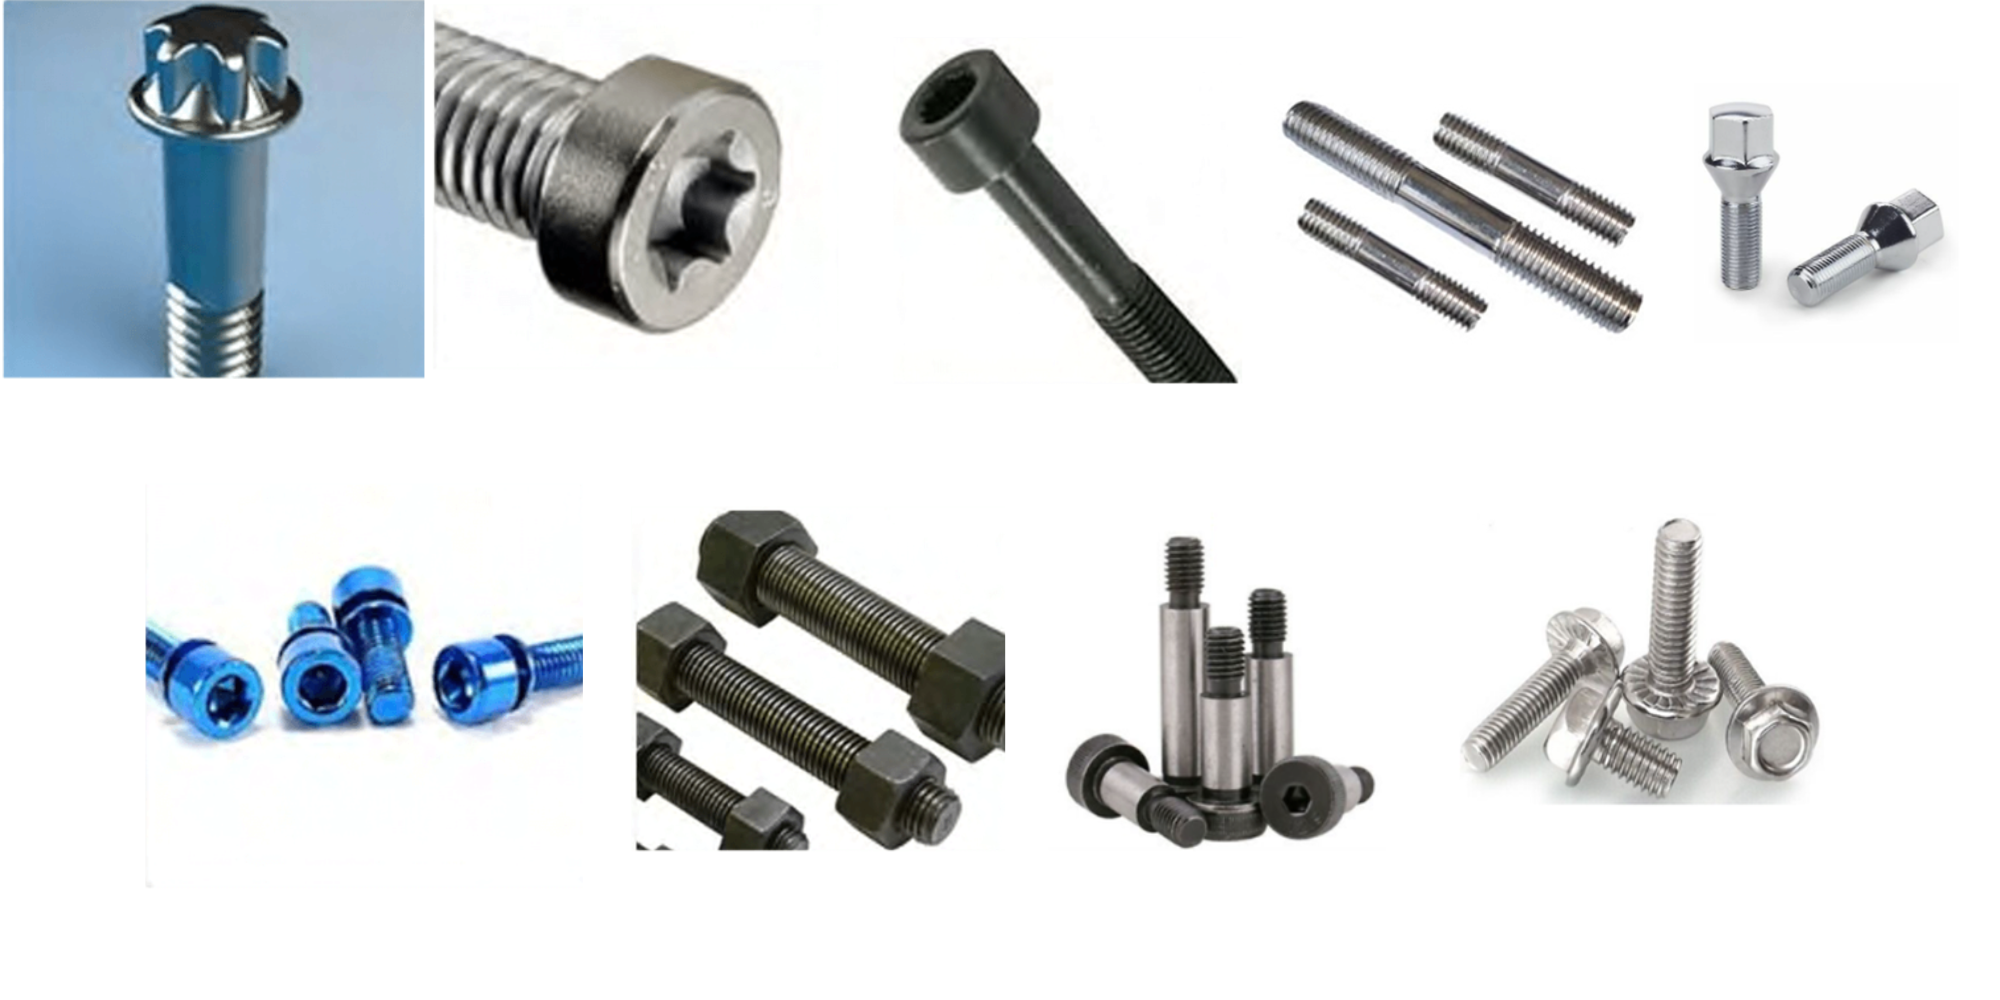
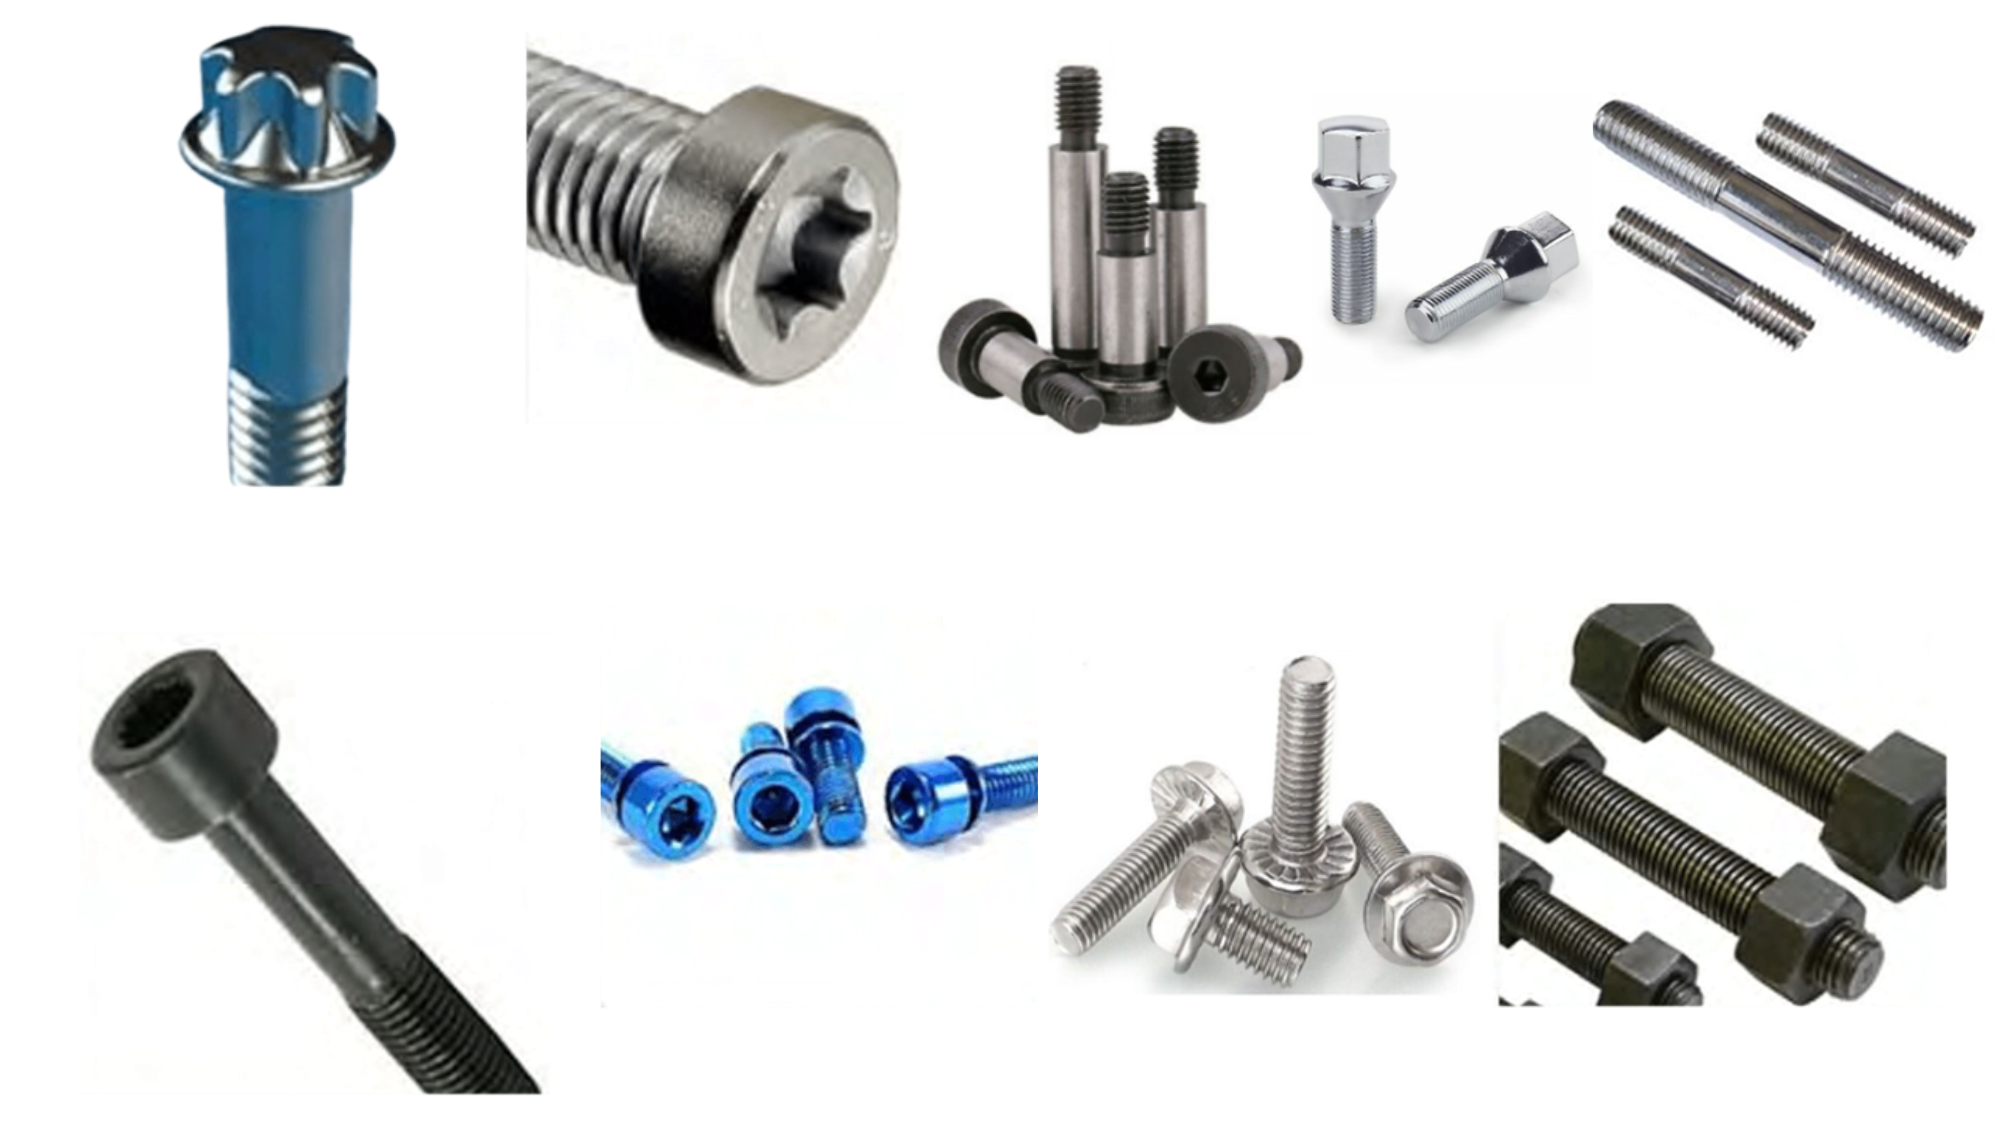
new changes

diff --git a/src/pages/CertificationsPage.jsx b/src/pages/CertificationsPage.jsx
@@ -1,0 +1,90 @@
+import React, { useState } from 'react';
+import { Fade } from 'react-awesome-reveal';
+
+const certifications = [
+  { src: '/logos/iso-9001.png', title: 'ISO', subtitle: '9001:2015', alt: 'ISO 9001:2015 Certified' },
+  { src: '/logos/iso-45001.png', title: 'ISO', subtitle: '45001:2018', alt: 'ISO 45001:2018 Certified' },
+  { src: '/logos/iso-14001.png', title: 'ISO', subtitle: '14001:2015', alt: 'ISO 14001:2015 Certified' },
+  { src: '/logos/iatf-16949.png', title: 'IATF', subtitle: '16949:2016', alt: 'IATF 16949:2016 Certified' },
+  { src: '/logos/ce.png', title: 'CE', subtitle: 'Certification', alt: 'CE Certified' },
+  { src: '/logos/rohs.png', title: 'ROHS', subtitle: 'Compliance', alt: 'ROHS Compliant' },
+];
+
+const CertificationsPage = () => {
+  const [modalOpen, setModalOpen] = useState(false);
+  const [modalImg, setModalImg] = useState('');
+  const [modalAlt, setModalAlt] = useState('');
+
+  const openModal = (img, alt) => {
+    setModalImg(img);
+    setModalAlt(alt);
+    setModalOpen(true);
+  };
+
+  const closeModal = () => {
+    setModalOpen(false);
+    setModalImg('');
+    setModalAlt('');
+  };
+
+  return (
+    <div className="min-h-screen bg-gradient-to-b from-white to-blue-50 py-16 px-4">
+      <div className="max-w-7xl mx-auto">
+        <Fade triggerOnce>
+          <h2 className="text-4xl font-extrabold text-center text-blue-800 mb-14">
+            Our International Certifications
+          </h2>
+        </Fade>
+
+        {/* Scrollable card container for mobile and grid for larger screens */}
+        <div className="grid grid-cols-1 sm:grid-cols-2 md:grid-cols-3 lg:grid-cols-3 gap-8">
+          {certifications.map((cert, index) => (
+            <Fade key={index} triggerOnce delay={index * 100}>
+              <div
+                className="bg-white hover:shadow-xl transition-transform transform hover:scale-105 rounded-xl p-6 flex flex-col items-center border border-gray-200 cursor-pointer"
+                onClick={() => openModal(cert.src, cert.alt)}
+              >
+                <img
+                  src={cert.src}
+                  alt={cert.alt}
+                  className="w-20 h-20 object-contain mb-4 transition duration-300"
+                />
+                <div className="text-2xl font-bold text-blue-600 mb-1">{cert.title}</div>
+                <div className="text-sm text-gray-600 text-center">{cert.subtitle}</div>
+              </div>
+            </Fade>
+          ))}
+        </div>
+      </div>
+
+      {/* Modal */}
+      {modalOpen && (
+        <div
+          className="fixed inset-0 z-50 flex items-center justify-center bg-black bg-opacity-70 backdrop-blur-sm"
+          onClick={closeModal}
+        >
+          <div
+            className="bg-white p-8 rounded-xl shadow-2xl relative max-w-md w-full"
+            onClick={(e) => e.stopPropagation()}
+          >
+            <button
+              className="absolute top-3 right-4 text-gray-600 hover:text-gray-800 text-2xl"
+              onClick={closeModal}
+              aria-label="Close"
+            >
+              &times;
+            </button>
+            <img
+              src={modalImg}
+              alt={modalAlt}
+              className="w-full h-64 object-contain mb-4"
+            />
+            <div className="text-xl font-semibold text-center text-blue-800">{modalAlt}</div>
+          </div>
+        </div>
+      )}
+    </div>
+  );
+};
+
+export default CertificationsPage;

diff --git a/src/components/Navigation.jsx b/src/components/Navigation.jsx
@@ -142,7 +142,7 @@ export default function Navigation() {
           </div>
 
           {/* Desktop Navigation */}
-          <nav className="hidden lg:flex space-x-6 text-sm font-medium items-center">
+          <nav className="hidden lg:flex gap-x-6 text-sm font-medium items-center overflow-x-auto whitespace-nowrap scrollbar-thin scrollbar-thumb-gray-400 scrollbar-track-gray-100">
             <NavLink to="/" end className={({ isActive }) => isActive ? "text-blue-400 font-semibold" : "text-gray-300 hover:text-blue-400"}>Home</NavLink>
             <div className="relative">
               <Link
@@ -208,6 +208,7 @@ export default function Navigation() {
             <NavLink to="/events" className={({ isActive }) => isActive ? "text-blue-400 font-semibold" : "text-gray-300 hover:text-blue-400"}>Events & Media</NavLink>
             <NavLink to="/gallery" className={({ isActive }) => isActive ? "text-blue-400 font-semibold" : "text-gray-300 hover:text-blue-400"}>Plant Gallery</NavLink>
             <NavLink to="/csr" className={({ isActive }) => isActive ? "text-blue-400 font-semibold" : "text-gray-300 hover:text-blue-400"}>CSR</NavLink>
+            <NavLink to="/certifications" className={({ isActive }) => isActive ? "text-blue-400 font-semibold" : "text-gray-300 hover:text-blue-400"}>Certifications</NavLink>
             <NavLink to="/careers" className={({ isActive }) => isActive ? "text-blue-400 font-semibold" : "text-gray-300 hover:text-blue-400"}>Careers</NavLink>
             <NavLink to="/about" className={({ isActive }) => isActive ? "text-blue-400 font-semibold" : "text-gray-300 hover:text-blue-400"}>About Us</NavLink>
             <NavLink to="/contact" className={({ isActive }) => isActive ? "text-blue-400 font-semibold" : "text-gray-300 hover:text-blue-400"}>Contact Us</NavLink>
@@ -290,6 +291,7 @@ export default function Navigation() {
           <NavLink to="/events" className={({ isActive }) => isActive ? "text-blue-400 font-semibold" : "text-gray-300 hover:text-blue-400"} onClick={toggleMobileMenu}>Events & Media</NavLink>
           <NavLink to="/gallery" className={({ isActive }) => isActive ? "text-blue-400 font-semibold" : "text-gray-300 hover:text-blue-400"} onClick={toggleMobileMenu}>Plant Gallery</NavLink>
           <NavLink to="/csr" className={({ isActive }) => isActive ? "text-blue-400 font-semibold" : "text-gray-300 hover:text-blue-400"} onClick={toggleMobileMenu}>CSR</NavLink>
+          <NavLink to="/certifications" className={({ isActive }) => isActive ? "text-blue-400 font-semibold" : "text-gray-300 hover:text-blue-400"} onClick={toggleMobileMenu}>Certifications</NavLink>
           <NavLink to="/careers" className={({ isActive }) => isActive ? "text-blue-400 font-semibold" : "text-gray-300 hover:text-blue-400"} onClick={toggleMobileMenu}>Careers</NavLink>
           <NavLink to="/about" className={({ isActive }) => isActive ? "text-blue-400 font-semibold" : "text-gray-300 hover:text-blue-400"} onClick={toggleMobileMenu}>About Us</NavLink>
           <NavLink to="/contact" className={({ isActive }) => isActive ? "text-blue-400 font-semibold" : "text-gray-300 hover:text-blue-400"} onClick={toggleMobileMenu}>Contact Us</NavLink>

diff --git a/src/App.js b/src/App.js
@@ -11,6 +11,7 @@ import EventsPage from './pages/EventsPage';
 import PlantGalleryPage from './pages/PlantGalleryPage';
 import ManufacturingPage from './pages/ManufacturingPage';
 import AboutUs from './pages/AboutUs';
+import CertificationsPage from './pages/CertificationsPage';
 
 function App() {
   return (
@@ -27,6 +28,7 @@ function App() {
           <Route path="/gallery" element={<PlantGalleryPage />} />
           <Route path="/manufacturing" element={<ManufacturingPage />} />
           <Route path="/about" element={<AboutUs />} />
+          <Route path="/certifications" element={<CertificationsPage />} />
         </Routes>
       </Layout>
     </Router>

diff --git a/src/data/products.js b/src/data/products.js
@@ -3,7 +3,7 @@ export const productCategories = [
     id: 1,
     name: 'SOCKET HEAD CAP SCREW',
     description: 'High-strength screws with a cylindrical head and hexagonal drive.',
-    image: '/products/sockethead-1.jpg',
+    image: '/products/sockethead-1.png',
     mainImage: '/products/prd-1.png',
     technicalImage: '/products/prd-t.png',
     specifications: [
